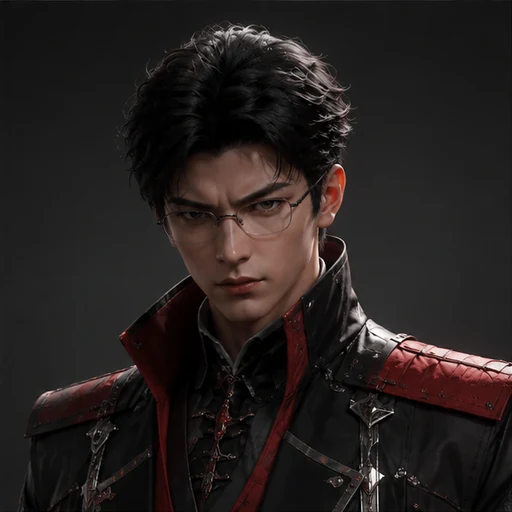
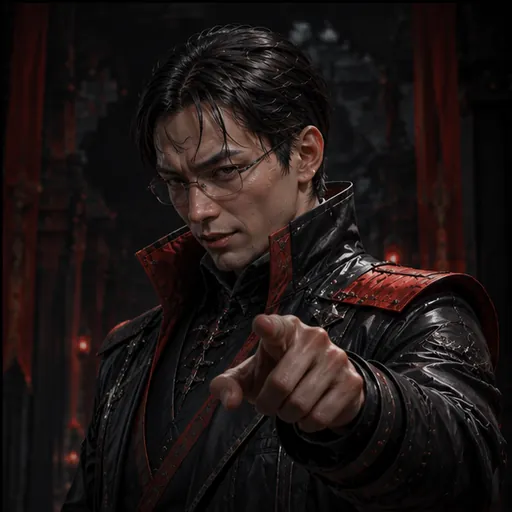
feat: add illustrated shop items and harsher rivals

diff --git a/src/styles.css b/src/styles.css
@@ -598,17 +598,15 @@ h1, h2, h3, p { margin-top: 0; }
 .avatar-actions { display: flex; flex-wrap: wrap; gap: 8px; margin: 4px 0 14px; }
 .avatar-actions .button { min-height: 42px; padding: 9px 12px; font-size: .7rem; }
 .shop-list { display: grid; grid-template-columns: 1fr 1fr; gap: 9px; }
-.shop-item { min-width: 0; min-height: 188px; display: grid; grid-template-rows: 106px minmax(0, 1fr) auto; gap: 8px; align-items: stretch; padding: 8px; text-align: left; color: var(--ink); background: #f1f3f0; border: 1px solid #d9deda; border-radius: 8px; transition: background-color .18s ease, border-color .18s ease, box-shadow .18s ease; }
+.shop-item { min-width: 0; min-height: 236px; display: grid; grid-template-rows: auto minmax(0, 1fr) auto; gap: 8px; align-items: stretch; padding: 8px; text-align: left; color: var(--ink); background: #f1f3f0; border: 1px solid #d9deda; border-radius: 8px; transition: transform .18s ease, background-color .18s ease, border-color .18s ease, box-shadow .18s ease; }
 .shop-item:hover { background: #f8f9f7; border-color: #afb8b1; }
-.shop-item.equipped { background: #edf6dd; border-color: #91b54c; box-shadow: inset 0 0 0 1px rgba(112,153,38,.14); }
-.shop-item-art { --collectible-accent: #708078; position: relative; isolation: isolate; overflow: hidden; width: 100%; height: 106px; display: grid; place-items: center; color: #fff; background: linear-gradient(145deg, color-mix(in srgb, var(--collectible-accent) 78%, #202823), color-mix(in srgb, var(--collectible-accent) 42%, #17201b)); border: 1px solid color-mix(in srgb, var(--collectible-accent) 70%, #e8eee9); border-radius: 6px; }
-.shop-item-art::before { content: ''; position: absolute; inset: 8px; z-index: -1; border: 1px solid rgba(255,255,255,.22); border-radius: 50%; transform: rotate(-14deg); }
-.shop-item-art::after { content: ''; position: absolute; left: -10%; right: -10%; bottom: -30px; height: 65px; z-index: -1; background: color-mix(in srgb, var(--collectible-accent) 70%, #fff); opacity: .18; border-radius: 50% 50% 0 0; }
-.shop-item-art > svg { position: relative; z-index: 2; filter: drop-shadow(0 5px 9px rgba(0,0,0,.32)); }
-.shop-item-art > img { position: absolute; inset: 0; width: 100%; height: 100%; z-index: 1; object-fit: cover; object-position: 50% 24%; filter: saturate(.88) contrast(1.05); }
-.shop-item-art.art-outfit::after { z-index: 2; }
-.collectible-glow { position: absolute; width: 68px; height: 68px; z-index: 0; background: var(--collectible-accent); border-radius: 50%; filter: blur(20px); opacity: .68; }
-.collectible-rune { position: absolute; right: 7px; bottom: 7px; width: 13px; height: 13px; z-index: 3; border: 1px solid rgba(255,255,255,.62); transform: rotate(45deg); }
+.shop-item:active { transform: scale(.985); }
+.shop-item.equipped { background: #edf6dd; border-color: #91b54c; box-shadow: inset 0 0 0 1px rgba(112,153,38,.14), 0 5px 14px rgba(71,92,37,.1); }
+.shop-item-art { position: relative; overflow: hidden; width: 100%; aspect-ratio: 1; background: #151a18; border: 1px solid #303a35; border-radius: 6px; }
+.shop-item-art::after { content: ''; position: absolute; inset: 0; background: linear-gradient(120deg, transparent 35%, rgba(255,255,255,.16) 48%, transparent 61%); transform: translateX(-120%); transition: transform .42s ease; pointer-events: none; }
+.shop-item:hover .shop-item-art::after, .shop-item:focus-visible .shop-item-art::after { transform: translateX(120%); }
+.shop-item-art > img { width: 100%; height: 100%; display: block; object-fit: cover; object-position: center; transition: transform .24s ease, filter .24s ease; }
+.shop-item:hover .shop-item-art > img, .shop-item:focus-visible .shop-item-art > img { transform: scale(1.035); filter: saturate(1.08) contrast(1.03); }
 .shop-item-copy { min-width: 0; display: block; }
 .shop-item strong, .shop-item small { display: block; }
 .shop-item strong { font-size: .72rem; line-height: 1.25; }

diff --git a/src/components/GameCollectibleArt.tsx b/src/components/GameCollectibleArt.tsx
@@ -1,68 +1,26 @@
-import type { CSSProperties } from 'react'
 import type { LucideIcon } from 'lucide-react'
 import {
   Award,
-  Bird,
   CalendarDays,
-  Circle,
-  Compass,
   Crown,
   Flame,
-  Flower2,
   Gem,
-  GraduationCap,
   Grid3X3,
   LampDesk,
   Landmark,
   Layers3,
   Map,
-  MapPin,
   Orbit,
-  Ribbon,
   Route,
-  Ruler,
-  ScrollText,
   ShieldCheck,
   Sigma,
   Sparkles,
   Star,
   Sun,
-  Sword,
   Target,
-  Trophy,
-  WandSparkles
+  Trophy
 } from 'lucide-react'
 import type { ShopItem } from '../types'
-
-const SHOP_ICONS: Partial<Record<string, LucideIcon>> = {
-  'aura-none': Circle,
-  'aura-iron': Orbit,
-  'aura-lotus': Flower2,
-  'aura-crimson': Flame,
-  'aura-emperor': Sun,
-  'weapon-scroll': ScrollText,
-  'weapon-ruler': Ruler,
-  'weapon-compass': Compass,
-  'weapon-blade': Sword,
-  'weapon-emperor': WandSparkles,
-  'accessory-none': Ribbon,
-  'accessory-jade': Gem,
-  'accessory-badge': MapPin,
-  'accessory-crown': Crown,
-  'companion-none': Sparkles,
-  'companion-ember': Flame,
-  'companion-owl': Bird,
-  'companion-star': Star,
-  'companion-memory': LampDesk
-}
-
-const OUTFIT_IMAGES: Partial<Record<string, string>> = {
-  'outfit-apprentice': `${import.meta.env.BASE_URL}characters/hero-apprentice.webp`,
-  'outfit-flame': `${import.meta.env.BASE_URL}characters/hero-standard.webp`,
-  'outfit-starseer': `${import.meta.env.BASE_URL}characters/hero-standard.webp`,
-  'outfit-master': `${import.meta.env.BASE_URL}characters/hero-standard.webp`,
-  'outfit-jiaoda': `${import.meta.env.BASE_URL}characters/hero-jiaoda.webp`
-}
 
 const TITLE_ICONS: readonly LucideIcon[] = [
   Flame,
@@ -85,19 +43,12 @@ const TITLE_ICONS: readonly LucideIcon[] = [
   Landmark
 ]
 
-function artStyle(color: string) {
-  return { '--collectible-accent': color } as CSSProperties
-}
-
 export function ShopItemArt({ item }: { item: ShopItem }) {
-  const image = OUTFIT_IMAGES[item.id]
-  const Icon = SHOP_ICONS[item.id] || GraduationCap
+  const image = `${import.meta.env.BASE_URL}shop-items/${item.id}.webp`
 
   return (
-    <span className={`shop-item-art art-${item.category} art-${item.id}`} style={artStyle(item.swatch)} aria-hidden="true">
-      <span className="collectible-glow" />
-      {image ? <img src={image} alt="" /> : <Icon size={44} strokeWidth={1.55} />}
-      <span className="collectible-rune" />
+    <span className={`shop-item-art art-${item.category} art-${item.id}`} aria-hidden="true">
+      <img src={image} alt="" loading="lazy" decoding="async" />
     </span>
   )
 }

diff --git a/src/utils/backup.ts b/src/utils/backup.ts
@@ -72,7 +72,7 @@ export async function createBackup(): Promise<BackupPayload> {
   return {
     format: BACKUP_FORMAT,
     exportedAt: new Date().toISOString(),
-    appVersion: typeof __APP_VERSION__ === 'string' ? __APP_VERSION__ : '0.12.0',
+    appVersion: typeof __APP_VERSION__ === 'string' ? __APP_VERSION__ : '0.13.0',
     data: { problems, images: serializedImages, reviews, rewards, profiles, settings }
   }
 }

diff --git a/vite.config.ts b/vite.config.ts
@@ -3,7 +3,7 @@ import react from '@vitejs/plugin-react'
 import { VitePWA } from 'vite-plugin-pwa'
 
 const base = process.env.VITE_BASE_PATH || '/'
-const appVersion = process.env.npm_package_version || '0.12.0'
+const appVersion = process.env.npm_package_version || '0.13.0'
 
 export default defineConfig({
   base,

diff --git a/README.md b/README.md
@@ -106,6 +106,8 @@ v0.10.0 起，每一讲使用独立且持久化的随机轮次：已完成题在
 
 v0.12.0 将高数公开原创题库扩展到 76 题，新增覆盖 18 讲的 36 道定义与基础结论选择题，每题提供条件链和反例检验两种解析。人物志扩展到 22 人，7 位核心角色拥有待机、对白、鼓励和对峙四种镜头；讲次卡片支持手机双击或桌面双击直接随机开题。角色语音会识别系统中文音色、分配人物声线，并在缺少语音包时显示设备安装路径。
 
+v0.13.0 为坊市全部 24 件服装、光环、武器、配饰和伙伴加入独立的高质量游戏道具插画，并重制曾宇鑫、袁越、陈睿斌的反派主立绘与四种动作。升级只替换应用资源，不会改动物品 ID、已购记录或 IndexedDB 刷题进度。
+
 v0.11.0 优化手机端长解析阅读：答案、各解法、核心方法和易错点可独立折叠，块级公式可横向滚动并进入全屏缩放查看。音效和角色语音支持 1% 精度调节、快捷预设和即时试听，设置会在当前浏览器持久保存；坊市商品、灵石和 18 个称号也增加了独立的游戏化插画与徽章。
 
 ## 加入自己的题和书页
